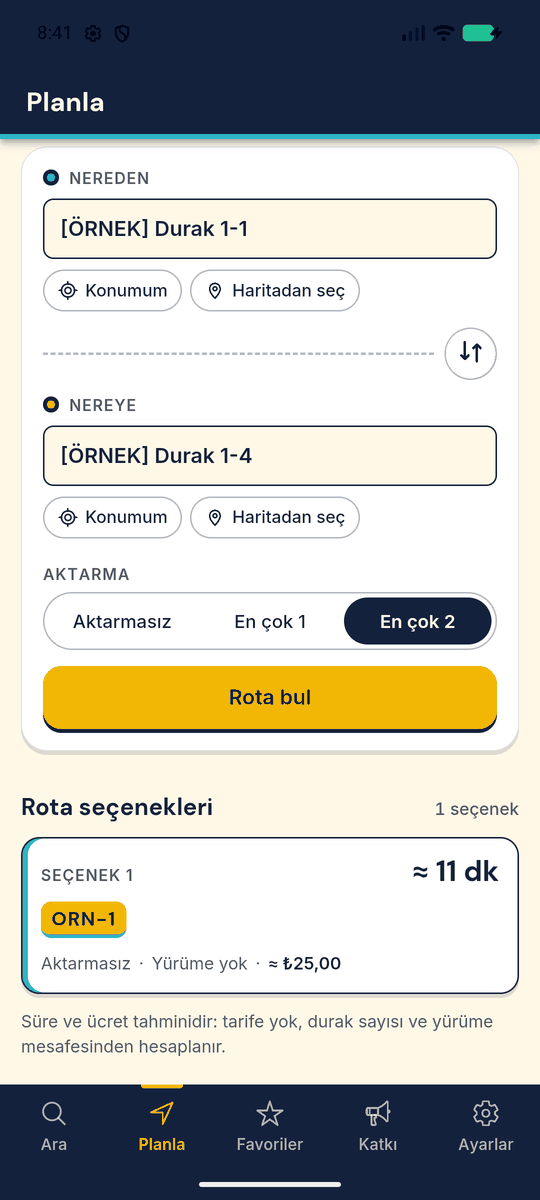
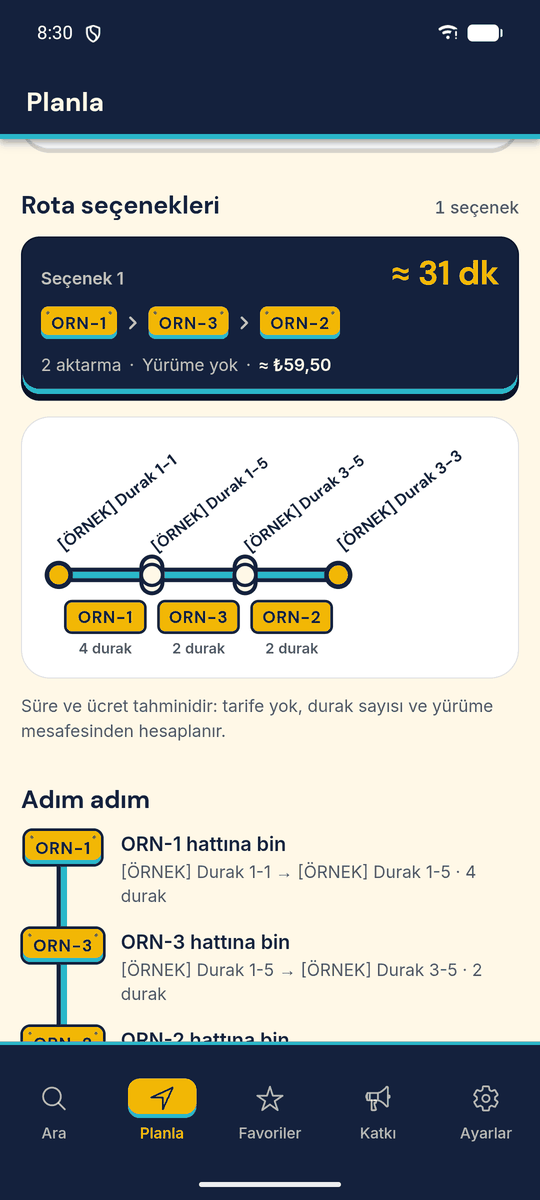
docs(readme): retake the Inecek Var card and web screens in the route-board look

diff --git a/README.md b/README.md
@@ -45,10 +45,10 @@ One card per project. Kadro, Askıda, Cetele and Inecek Var have applications. E
       <sub><b>Cetele</b>: web home page and Android customer list (local server, sample data) · <a href="https://ayberkaarda.github.io/Mobiles-5in-One/cetele/">web demo</a></sub>
     </td>
     <td width="50%" align="center">
-      <img src="docs/readme/inecekvar.png" alt="Inecek Var card: web home page with the tagline, the labelled sample city and the three steps, and the Android line page, local stack, sample data" width="100%"><br>
-      <img src="inecekvar/docs/screenshots/readme/01-search-sample-city.png" alt="Inecek Var Android app: search screen with the labelled sample city and its lines, emulator" width="32%">
-      <img src="inecekvar/docs/screenshots/readme/02-city-pack.png" alt="Inecek Var Android app: offline cities screen with the sample city pack installed, its version and size, emulator" width="32%">
-      <img src="inecekvar/docs/screenshots/readme/03-planner.png" alt="Inecek Var Android app: A to B planner with both stops filled and the result with the line, estimated time and fare, sample data, emulator" width="32%"><br>
+      <img src="docs/readme/inecekvar.png" alt="Inecek Var card: web home page with the destination-sign tagline and the street scene, and the Android line page with the destination sign, the stop diagram and the fare ticket, local stack, sample data" width="100%"><br>
+      <img src="inecekvar/docs/screenshots/readme/01-search-sample-city.png" alt="Inecek Var Android app: search screen with the Nereye inecek var? board, the labelled sample city and the shortcuts, emulator" width="32%">
+      <img src="inecekvar/docs/screenshots/readme/02-line-page.png" alt="Inecek Var Android app: line page with the destination sign, the stop diagram and the fare ticket, sample data, emulator" width="32%">
+      <img src="inecekvar/docs/screenshots/readme/03-planner.png" alt="Inecek Var Android app: A to B planner result with two transfers drawn as a stop diagram with the line placards, sample data, emulator" width="32%"><br>
       <sub><b>Inecek Var</b>: web home page and Android line screens (local stack, sample data) · <a href="https://ayberkaarda.github.io/Mobiles-5in-One/inecekvar/">web demo</a></sub>
     </td>
   </tr>

diff --git a/README.tr.md b/README.tr.md
@@ -45,10 +45,10 @@ Her proje için bir kart. Kadro'nun, Askıda'nın, Cetele'nin ve Inecek Var'ın 
       <sub><b>Cetele</b>: web ana sayfası ve Android müşteri listesi (yerel sunucu, örnek veri) · <a href="https://ayberkaarda.github.io/Mobiles-5in-One/cetele/">web demo</a></sub>
     </td>
     <td width="50%" align="center">
-      <img src="docs/readme/inecekvar.png" alt="Inecek Var kartı: slogan, etiketli örnek şehir ve üç adımla web ana sayfası ve Android hat sayfası, yerel yığın, örnek veri" width="100%"><br>
-      <img src="inecekvar/docs/screenshots/readme/01-search-sample-city.png" alt="Inecek Var Android uygulaması: etiketli örnek şehir ve hatlarıyla arama ekranı, emülatör" width="32%">
-      <img src="inecekvar/docs/screenshots/readme/02-city-pack.png" alt="Inecek Var Android uygulaması: örnek şehir paketi kurulu, sürümü ve boyutuyla çevrimdışı şehirler ekranı, emülatör" width="32%">
-      <img src="inecekvar/docs/screenshots/readme/03-planner.png" alt="Inecek Var Android uygulaması: iki durağı dolu A'dan B'ye planlayıcı ve hat, tahmini süre ve ücretle sonuç, örnek veri, emülatör" width="32%"><br>
+      <img src="docs/readme/inecekvar.png" alt="Inecek Var kartı: tabela gibi slogan ve sokak çizimiyle web ana sayfası ve hat tabelası, durak şeması ve ücret biletiyle Android hat sayfası, yerel yığın, örnek veri" width="100%"><br>
+      <img src="inecekvar/docs/screenshots/readme/01-search-sample-city.png" alt="Inecek Var Android uygulaması: Nereye inecek var? tabelası, etiketli örnek şehir ve kısayollarla arama ekranı, emülatör" width="32%">
+      <img src="inecekvar/docs/screenshots/readme/02-line-page.png" alt="Inecek Var Android uygulaması: hat tabelası, durak şeması ve ücret biletiyle hat sayfası, örnek veri, emülatör" width="32%">
+      <img src="inecekvar/docs/screenshots/readme/03-planner.png" alt="Inecek Var Android uygulaması: iki aktarmalı A'dan B'ye sonucu, hat plakalarıyla durak şeması olarak, örnek veri, emülatör" width="32%"><br>
       <sub><b>Inecek Var</b>: web ana sayfası ve Android hat ekranları (yerel yığın, örnek veri) · <a href="https://ayberkaarda.github.io/Mobiles-5in-One/inecekvar/">web demo</a></sub>
     </td>
   </tr>

diff --git a/inecekvar/README.md b/inecekvar/README.md
@@ -4,6 +4,10 @@ English | [Türkçe](README.tr.md)
 
 Tagline (tr): "Dolmuş nereden geçer? Mahalle bilir."
 
+<img src="docs/screenshots/web/home.png" alt="Inecek Var web home page: the name, the destination-sign tagline, the street scene with the dolmuş, the labelled sample city and the three steps on a route rail, local build, sample data" width="100%">
+
+Web home page from a local build with sample data. The [line page](docs/screenshots/web/line.png), a [guide](docs/screenshots/web/guide.png) and the [dark home page](docs/screenshots/web/home-dark.png) are in `docs/screenshots/web`.
+
 ## Product summary
 
 İnecek Var is a crowdsourced route map for dolmuş, minibus and servis lines in Turkish cities, where official data is often missing. Passengers can look up lines, stops, fares and hours, plan A to B trips with transfers, and download offline city packs. Neighbourhood contributors record rides as GPS traces and propose or edit lines, and moderators review and publish them. The name is the phrase passengers shout to stop a dolmuş. The tone is street-smart, playful and clear.

diff --git a/inecekvar/README.tr.md b/inecekvar/README.tr.md
@@ -4,6 +4,10 @@
 
 Slogan: "Dolmuş nereden geçer? Mahalle bilir."
 
+<img src="docs/screenshots/web/home.png" alt="Inecek Var web ana sayfası: ad, hat tabelası gibi slogan, dolmuşlu sokak çizimi, etiketli örnek şehir ve hat çizgisi üzerinde üç adım, yerel derleme, örnek veri" width="100%">
+
+Yerel derlemeden, örnek veriyle web ana sayfası. [Hat sayfası](docs/screenshots/web/line.png), bir [rehber](docs/screenshots/web/guide.png) ve [koyu ana sayfa](docs/screenshots/web/home-dark.png) `docs/screenshots/web` içinde.
+
 ## Ürün özeti
 
 İnecek Var, resmî verisi çoğu zaman bulunmayan dolmuş, minibüs ve servis hatlarını mahallelinin birlikte haritaladığı bir hat rehberi. Yolcular hat, durak, ücret ve saatlere bakabilir, aktarmalı A→B rota planlayabilir ve çevrimdışı şehir paketleri indirebilir. Katkıcılar yolculuğu GPS izi olarak kaydeder, hat önerir ya da düzenler; moderatörler inceleyip yayınlar. Ad, yolcuların dolmuşu durdurmak için bağırdığı sözden geliyor. Dil sokak ağzına yakın, esprili ve net.
